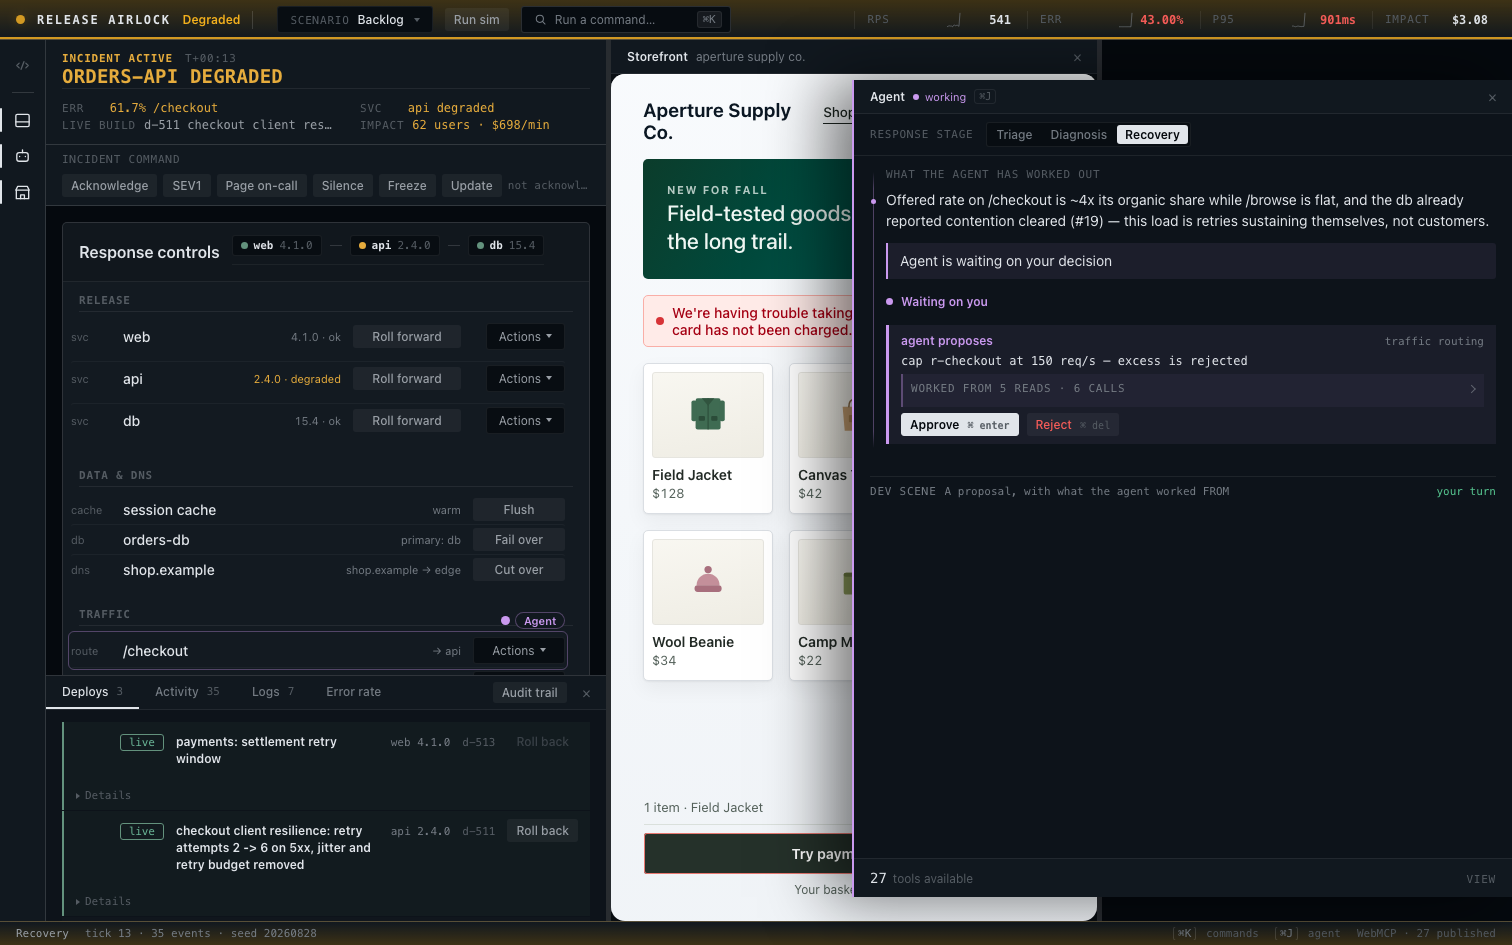
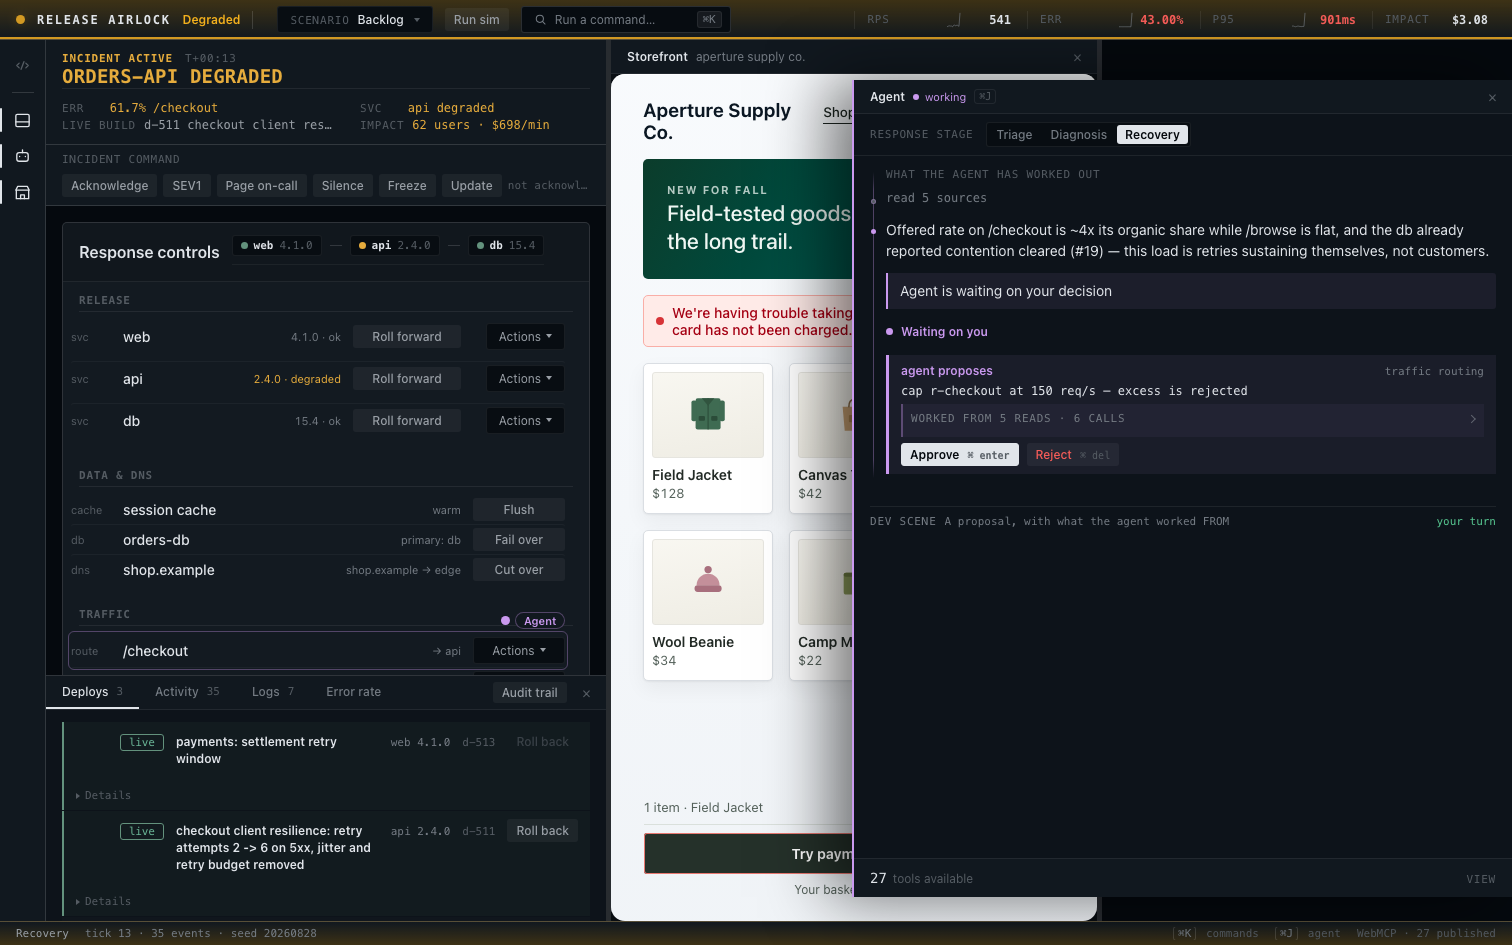
The thread carries the whole trace, and the demo voice comes out of the copy
Sid: "one nearly designed component linearly reporting an issue detected as
soon as the agent connects, see it call tools to diagnose then propose a plan
and then execute it with approval while narrating the development from each
step and finally a successful celebration resolution message ... make it
possible to review the whole trace and hide stale content as we go".

THE READS ARE IN THE TRACE NOW. They were narrated into a transient line that
wiped itself after a few seconds, so the thread jumped from an open incident to
a finished conclusion with the work that produced it missing. Consecutive reads
MERGE into a single entry — "read 5 sources", hollow pip, caption weight — so
five lookups do not out-shout the finding they produced, and the operator
learns that it looked and at what without scrolling a tool log.

AND IT ENDS. reportPlanOutcome() already turned the console teal and told the
plan it was over; the agent's own column said nothing at the moment it worked.
It now closes with "Checkout is serving again and the error rate is back to
baseline" — green, and the one entry that never folds.

So the column reads top to bottom as the incident happened: reads, what it
concluded (older entries folded to a line), the seven-step plan with its rail,
the live decision pinned at the bottom, and the resolution.

DEMO VOICE, OUT OF FOUR EMPTY STATES. Each was explaining the design to the
person already using it, which is the register the framing law bans:
[…]

Changed region(s): [[0.5906, 0.1841, 0.9947, 0.5217], [0.746, 0.3683, 0.8082, 0.4296]]

diff --git a/src/main.ts b/src/main.ts
@@ -270,7 +270,7 @@ app.innerHTML = `
           <div class="tabpane" id="zone-activity" data-testid="zone-activity" role="tabpanel"
                aria-labelledby="tab-activity" tabindex="0" hidden>
             <ol id="event-stream" data-testid="event-stream" aria-live="polite"></ol>
-            <p class="empty" id="stream-empty">Nothing has happened yet. Start the scenario to bring the store online.</p>
+            <p class="empty" id="stream-empty">Nothing has happened yet.</p>
           </div>
 
           <div class="tabpane" id="zone-logs" data-testid="zone-logs" role="tabpanel"
@@ -286,7 +286,7 @@ app.innerHTML = `
               <span class="log-shown" id="log-shown" data-testid="log-shown"></span>
             </div>
             <ol id="log-stream" data-testid="log-stream" aria-label="Application logs"></ol>
-            <p class="empty" id="logs-empty">No application logs yet. These are the same lines <code>read_logs</code> serves the agent.</p>
+            <p class="empty" id="logs-empty">No application logs yet.</p>
           </div>
 
           <section class="tabpane chart" id="err-chart" data-testid="err-chart" role="tabpanel"
@@ -301,7 +301,7 @@ app.innerHTML = `
                 <path class="chart-line" d="" vector-effect="non-scaling-stroke" />
               </svg>
               <span class="chart-slo" id="chart-slo" title="1% error budget"></span>
-              <p class="chart-empty">Nothing plotted yet — start the scenario and the error rate builds here, so you can see when it began and whether it is recovering.</p>
+              <p class="chart-empty">Nothing plotted yet — the error rate builds here once the scenario runs.</p>
             </div>
             <div class="chart-axis"><span>60 ticks ago</span><span>now</span></div>
           </section>
@@ -427,9 +427,8 @@ app.innerHTML = `
           </div>
           <div class="findings" id="agent-findings" aria-live="polite"></div>
           <p class="findings-empty" id="findings-empty">
-            Nothing concluded yet. When an agent works this incident, what it
-            establishes — and what it rules out — is written here, in the
-            console, where you can check it.
+            Nothing concluded yet. What the agent establishes — and what it
+            rules out — appears here as it works.
           </p>
         </section>
 
@@ -1637,6 +1636,9 @@ function reportPlanOutcome(): void {
     plan.el.dataset.outcome = 'resolved';
     plan.el.querySelector<HTMLElement>('.pl-state')!.textContent =
       'every step executed — the incident is over';
+    // and the thread closes with it: the column that carried the whole
+    // response should not go silent at the moment it worked
+    threadResolved();
   }
 }
 
@@ -2145,6 +2147,71 @@ document.querySelector('#console')!.addEventListener('focusin', (e) => {
 });
 document.querySelector('#console')!.addEventListener('focusout', clearHoverCounsel);
 
+/**
+ * THE TRACE, NOT JUST THE CONCLUSIONS. Sid: "one nearly designed component
+ * linearly reporting an issue detected as soon as the agent connects, see it
+ * call tools to diagnose then propose a plan and then execute it".
+ *
+ * The reads were narrated in a transient line that wiped itself, so the thread
+ * jumped from "incident open" to a finished conclusion with the work that
+ * produced it missing. Consecutive reads MERGE into one entry rather than
+ * filing six near-identical rows — the operator wants to know it looked, and
+ * at what, not to scroll a tool log.
+ */
+function threadRead(tool: string): void {
+  const host = document.querySelector<HTMLElement>('#agent-findings');
+  const said = READ_NARRATION[tool];
+  if (!host || !said) return;
+  document.querySelector<HTMLElement>('#findings-empty')!.hidden = true;
+
+  const last = host.lastElementChild as HTMLElement | null;
+  if (last?.dataset.kind === 'reads') {
+    const seen = new Set((last.dataset.tools ?? '').split(',').filter(Boolean));
+    seen.add(tool);
+    last.dataset.tools = [...seen].join(',');
+    last.querySelector('.tr-what')!.textContent =
+      seen.size === 1 ? said.says : `read ${seen.size} sources`;
+    last.title = [...seen].join(' · ');
+    return;
+  }
+
+  const el = document.createElement('article');
+  el.className = 'finding thread-read';
+  el.dataset.kind = 'reads';
+  el.dataset.tools = tool;
+  el.title = tool;
+  const p = document.createElement('p');
+  p.className = 'finding-summary tr-what';
+  p.textContent = said.says;
+  el.append(p);
+  host.append(el);
+  while (host.children.length > 6) host.firstElementChild!.remove();
+  foldOlderFindings(host);
+}
+
+/**
+ * The end of the thread. An incident that ends has to LOOK like it ended —
+ * the console already turns teal and the storefront starts checking out, and
+ * the agent's own column said nothing at all.
+ */
+function threadResolved(): void {
+  const host = document.querySelector<HTMLElement>('#agent-findings');
+  if (!host || host.querySelector('[data-kind="resolved"]')) return;
+  document.querySelector<HTMLElement>('#findings-empty')!.hidden = true;
+  const el = document.createElement('article');
+  el.className = 'finding thread-resolved';
+  el.dataset.kind = 'resolved';
+  el.dataset.testid = 'thread-resolved';
+  const p = document.createElement('p');
+  p.className = 'finding-summary';
+  p.textContent = 'Checkout is serving again and the error rate is back to baseline.';
+  el.append(p);
+  host.append(el);
+  foldOlderFindings(host);
+  // the resolution is the one entry that never folds
+  el.dataset.fold = 'false';
+}
+
 function renderFinding(e: Event): void {
   const host = document.querySelector<HTMLElement>('#agent-findings');
   if (!host) return;
@@ -2208,6 +2275,7 @@ function showAgentAttention(e: Event): void {
     const read = READ_NARRATION[tool];
     if (read) {
       narrate(`Agent is ${read.says}`);
+      threadRead(tool);
       touchRegion(read.region);
     } else if (WRITE_NARRATION[tool]) {
       narrate(`Agent is ${WRITE_NARRATION[tool]}`);

diff --git a/src/styles/shell.css b/src/styles/shell.css
@@ -2316,6 +2316,23 @@ body {
 }
 .finding[data-fold='true'] .finding-ruled { display: none; }
 .finding[data-fold='true']:hover .finding-summary { color: var(--ink-dim); }
+
+/* A READ is the agent looking, not the agent concluding — it reports at the
+   weight of a caption, and its pip is hollow. Consecutive reads merge into
+   one entry so five lookups do not out-shout the finding they produced. */
+.thread-read { cursor: default; }
+.thread-read .finding-summary {
+  color: var(--ink-faint);
+  font-family: var(--font-instrument);
+  font-size: var(--text-2xs);
+}
+.agent-thread .thread-read::before {
+  background: none;
+  box-shadow: inset 0 0 0 1px var(--actor-agent-dim);
+}
+/* THE END OF THE THREAD. The one entry that never folds. */
+.thread-resolved .finding-summary { color: var(--good); font-weight: 600; }
+.agent-thread .thread-resolved::before { background: var(--good); }
 .finding-summary {
   margin: 0;
   color: var(--ink);
